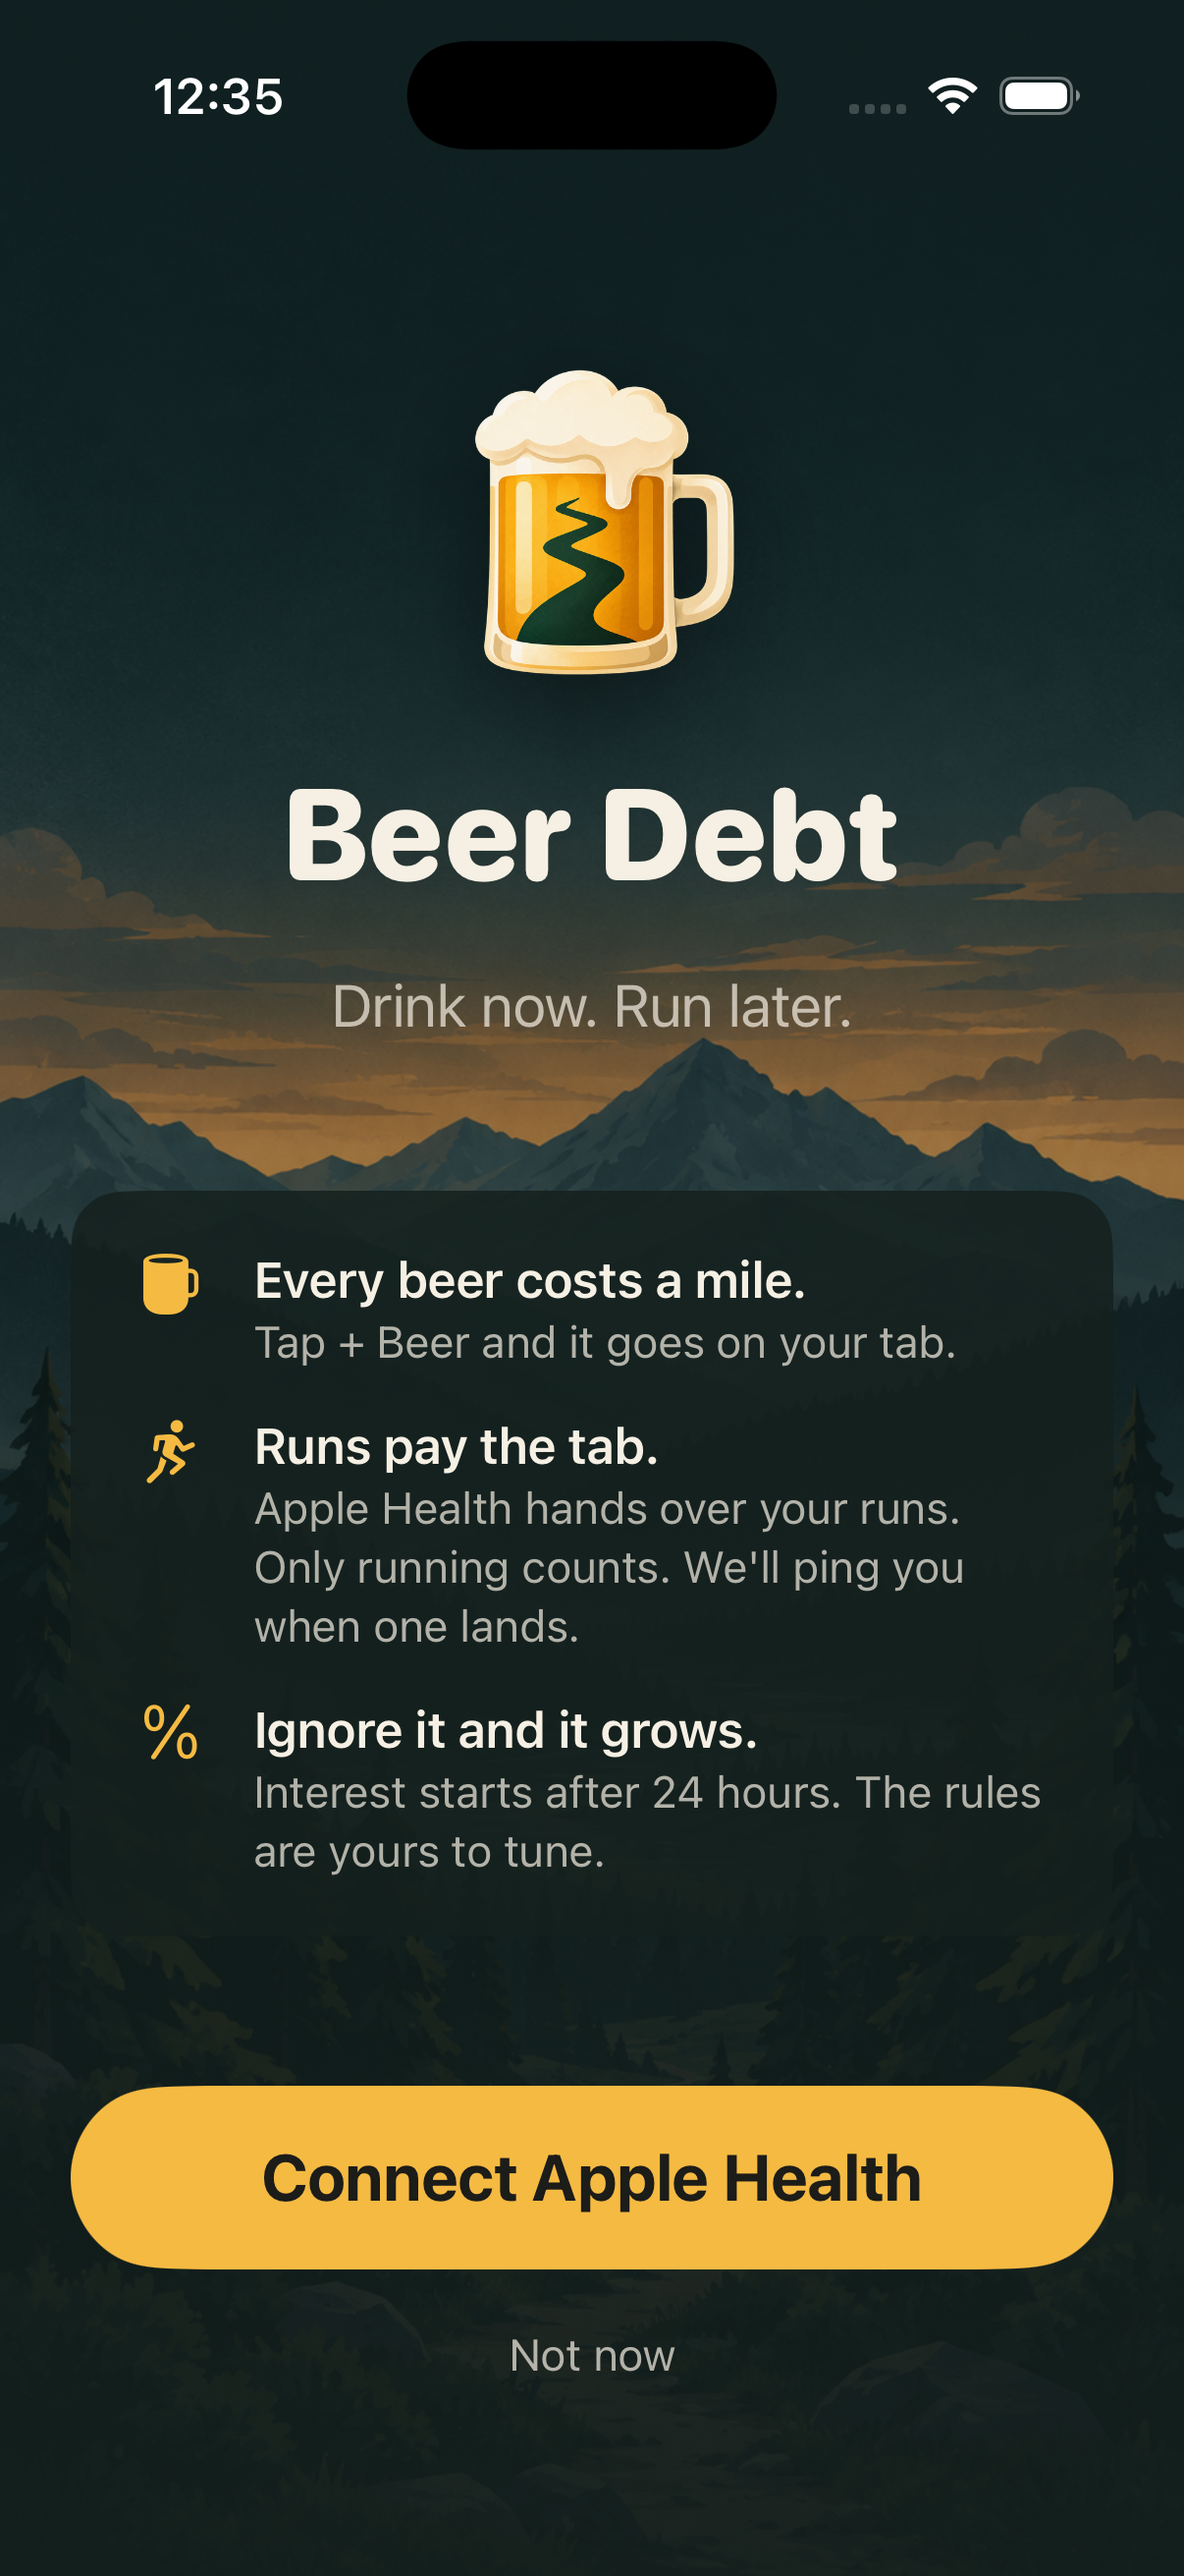
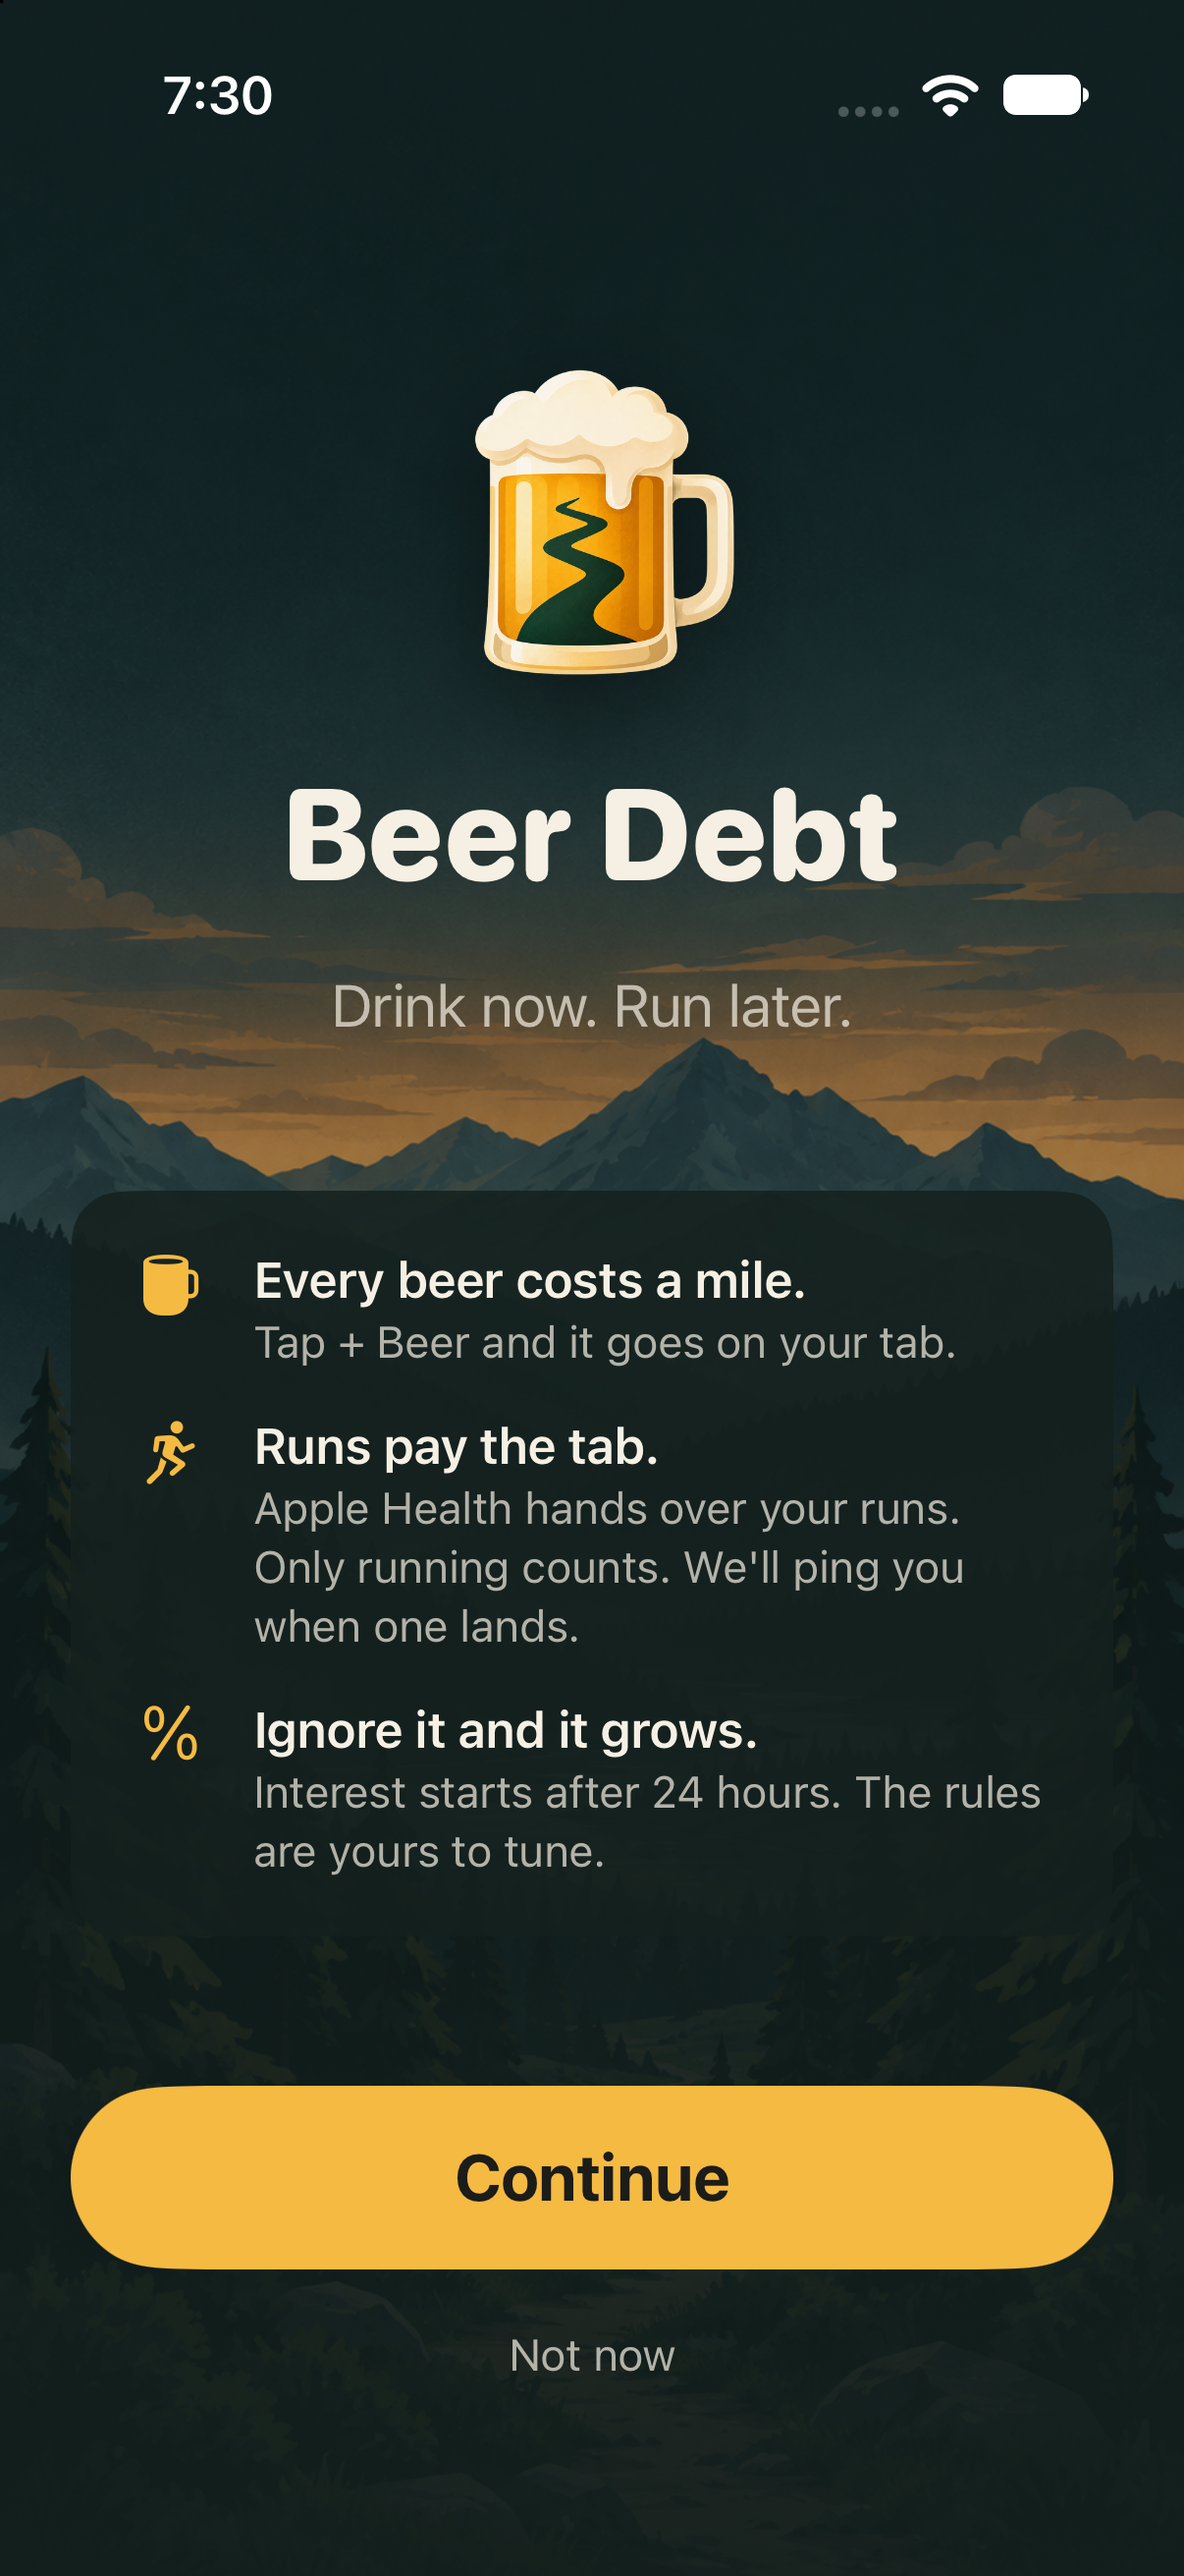
Neutral button ahead of the Health prompt (5.1.1(iv)) (#14)
App Review rejected 1.0 (35) under guideline 5.1.1(iv): the onboarding
screen explains why we want Health and then advances with a button
labelled "Connect Apple Health". A pre-permission screen may explain
itself, but its button must not steer the answer to the system dialog —
Apple asked for "Continue" or "Next".

Only the label changes; the explanation stays, which Apple's message
explicitly allows. The Settings row keeps its name: there is no
interstitial there, the button is the request, and "Continue" inside a
settings list would say nothing.

diff --git a/BeerDebt/Features/Onboarding/HealthOnboardingView.swift b/BeerDebt/Features/Onboarding/HealthOnboardingView.swift
@@ -50,7 +50,9 @@ struct HealthOnboardingView: View {
                         onDone()
                     }
                 } label: {
-                    Text(connecting ? "Connecting…" : "Connect Apple Health")
+                    // Neutral label: guideline 5.1.1(iv) forbids a pre-permission
+                    // screen whose button steers the answer to the system prompt.
+                    Text(connecting ? "Connecting…" : "Continue")
                 }
                 .buttonStyle(GoldButtonStyle())
                 .disabled(connecting)
